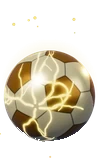
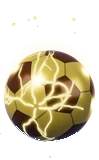
Мячи-паки: лак, подсветка и свечение по редкости, насыщенный золотой; магазин — цветные строки паков
Claude-Session: https://claude.ai/code/session_01VpcaxWoBDaJdgiPA1Q4kL3

diff --git a/js/fcm.js b/js/fcm.js
@@ -183,9 +183,9 @@ const FCM = (() => {
           <button class="hm-play" data-dv-play><svg viewBox="0 0 24 24" aria-hidden="true"><path d="M8 5v14l11-7z" fill="currentColor"/></svg>Играть</button></div></div>` : homeHero(jg);
     // одна плитка «открыть сейчас»: самое ценное из того, что ждёт
     const T = A ? { a: 'data-act="angry"', img: 'img/packs/angry-360.webp?v=a2', s: 'Злой мяч', t: 'Открыть', n: A, c: 'angry' }
-      : P ? { a: 'data-act="balls"', img: 'img/packs/pk0-360.webp?v=b3', s: 'Мяч-дроп', t: 'Открыть', n: P, c: 'balls' }
-      : day ? { a: 'data-act="wheel"', img: 'img/packs/pk1-360.webp?v=b3', s: 'Бесплатно', t: 'Пак дня', n: '!', c: 'balls' }
-      : { a: 'data-fm-tab="store"', img: 'img/packs/pk3-360.webp?v=b3', s: 'Магазин', t: 'Паки', n: 0, c: 'packs' };
+      : P ? { a: 'data-act="balls"', img: 'img/packs/pk0-360.webp?v=b4', s: 'Мяч-дроп', t: 'Открыть', n: P, c: 'balls' }
+      : day ? { a: 'data-act="wheel"', img: 'img/packs/pk1-360.webp?v=b4', s: 'Бесплатно', t: 'Пак дня', n: '!', c: 'balls' }
+      : { a: 'data-fm-tab="store"', img: 'img/packs/pk3-360.webp?v=b4', s: 'Магазин', t: 'Паки', n: 0, c: 'packs' };
     const GM = ['career', 'ng-wordle', 'hl'].map((k) => `img/games/${k}.webp`);
     // лига канала: место недели (последнее известное) и «награда ждёт»
     if (typeof League !== 'undefined') League.load(false, () => { if (tab === 'play') render(); });
@@ -525,14 +525,14 @@ const FCM = (() => {
   // ---- пропуск сезона в новом виде: две линии наград (премиум сверху, бесплатно снизу), уровни, «Забрать» ----
   function rwCell(r, st, attr) {
     const l = Rewards.rewardLabel(r);
-    const art = r.pack !== undefined ? `<img src="img/packs/pk${r.pack}-160.webp?v=b3" alt="">` : r.coins ? '<i class="coin big"></i>' : l.ico;
+    const art = r.pack !== undefined ? `<img src="img/packs/pk${r.pack}-160.webp?v=b4" alt="">` : r.coins ? '<i class="coin big"></i>' : l.ico;
     return `<button class="fm-ps-c ${st}" ${attr}><span class="fm-ps-a">${art}</span><b>${esc(l.txt || l.name)}</b>${st === 'got' ? '<i>✓</i>' : st === 'ready' ? '<em>Забрать</em>' : st === 'buy' ? '<em class="pr">Премиум</em>' : ''}</button>`;
   }
   // ---- пропуск (5.11): сверху премиум-линия, снизу бесплатная, посередине уровни на линии прогресса; дорожка встаёт на текущий уровень ----
   function psCell(r, st, attr, prem, cw = 42) {
     const l = Rewards.rewardLabel(r);
     const pc = r.key && Cards.get(r.key);
-    const art = pc ? `<span class="ps2-card">${Cards.html(pc, { w: cw })}</span>` : r.pack !== undefined ? `<img class="ps2-pk" src="img/packs/pk${r.pack}-160.webp?v=b3" alt="">` : r.coins ? '<i class="coin big"></i>' : r.lime ? '<i class="lime big"></i>' : `<span class="ps2-ic">${l.ico}</span>`;
+    const art = pc ? `<span class="ps2-card">${Cards.html(pc, { w: cw })}</span>` : r.pack !== undefined ? `<img class="ps2-pk" src="img/packs/pk${r.pack}-160.webp?v=b4" alt="">` : r.coins ? '<i class="coin big"></i>' : r.lime ? '<i class="lime big"></i>' : `<span class="ps2-ic">${l.ico}</span>`;
     const name = r.lime ? `${r.lime}` : pc ? l.txt : r.pack !== undefined ? l.txt : r.coins ? `${r.coins}` : (l.name || l.txt);
     const tag = st === 'got' ? '<i class="ps2-ok">✓</i>' : st === 'ready' ? '<em>Забрать</em>' : /buy/.test(st) ? `<i class="ps2-lock">${ico('lock')}</i>` : '';
     return `<button class="ps2-c ${st} ${prem ? 'pr' : ''} ${pc ? 'sp' : ''}" ${attr}><span class="ps2-a">${art}</span><b>${esc(name)}</b>${tag}</button>`;
@@ -626,7 +626,7 @@ const FCM = (() => {
   }
   const price = (x) => `${x.coins ? `<span class="fm-pr c">${coin}${x.coins}</span>` : ''}${x.stars ? `<span class="fm-pr s">${StarShop.free() ? 'Бесплатно' : x.stars} ⭐</span>` : ''}`;
   const pkCard = (x, big) => `<button class="fm-pk lv${x.level} ${big ? 'big' : ''}" data-fm-pk="${x.id}">
-      <i class="fm-pk-glow"></i><img class="fm-pk-img" src="img/packs/pk${x.level}-360.webp?v=b3" alt="" loading="lazy" draggable="false">
+      <i class="fm-pk-glow"></i><img class="fm-pk-img" src="img/packs/pk${x.level}-360.webp?v=b4" alt="" loading="lazy" draggable="false">
       <span class="fm-pk-t"><b>${esc(x.name)}</b><span class="fm-chips">${chips(x).map((c) => `<em>${esc(c)}</em>`).join('')}</span></span>
       <span class="fm-pk-p">${price(x)}</span></button>`;
   function store() {
@@ -637,10 +637,10 @@ const FCM = (() => {
     if (sub.store === 'top') {
       const jack = list.find((x) => x.id === 'jack'), rest = list.filter((x) => ['basic', 'gold', 'legend'].includes(x.id));
       body = `<div class="fm-st-top">
-        ${jack ? `<button class="fm-st-hero" data-fm-pk="jack"><i class="fm-st-rays"></i><img src="img/packs/pk4-360.webp?v=b3" alt="" draggable="false">
+        ${jack ? `<button class="fm-st-hero" data-fm-pk="jack"><i class="fm-st-rays"></i><img src="img/packs/pk4-360.webp?v=b4" alt="" draggable="false">
           <span><small>Лучший пак</small><b>${esc(jack.name)}</b><em>${esc(jack.sub)}</em><span class="fm-pk-p">${price(jack)}</span></span></button>` : ''}
         <div class="fm-st-col">
-          <button class="fm-daypk ${day ? 'hot' : ''}" data-act="wheel"><img src="img/packs/pk0-160.webp?v=b3" alt=""><span><b>Пак дня</b><small>${day ? 'Бесплатно — забери сейчас' : 'Новый пак завтра'}</small></span><em>${day ? 'Забрать' : 'Завтра'}</em></button>
+          <button class="fm-daypk ${day ? 'hot' : ''}" data-act="wheel"><img src="img/packs/pk0-160.webp?v=b4" alt=""><span><b>Пак дня</b><small>${day ? 'Бесплатно — забери сейчас' : 'Новый пак завтра'}</small></span><em>${day ? 'Забрать' : 'Завтра'}</em></button>
           <div class="fm-st-mini">${rest.map((x) => pkCard(x)).join('')}</div>
         </div></div>`;
     } else if (sub.store === 'packs') body = `<div class="fm-pks">${list.map((x) => pkCard(x)).join('')}</div>`;
@@ -719,7 +719,7 @@ const FCM = (() => {
     const P0 = Cards.PACKS[x.level], P = { ...P0, w: effW(P0.w) }, tot = P.w.reduce((a, w) => a + w[1], 0);
     const el = document.createElement('div'); el.className = `fm-sheet lv${x.level}`;
     el.innerHTML = `<div class="fm-sh-card">
-        <div class="fm-sh-art"><i class="fm-st-rays"></i><img src="img/packs/pk${x.level}-360.webp?v=b3" alt="" draggable="false"></div>
+        <div class="fm-sh-art"><i class="fm-st-rays"></i><img src="img/packs/pk${x.level}-360.webp?v=b4" alt="" draggable="false"></div>
         <div class="fm-sh-info">
           <small>Пак</small><b>${esc(x.name)}</b>
           <span class="fm-chips">${chips(x).map((c) => `<em>${esc(c)}</em>`).join('')}</span>

diff --git a/js/packs.js b/js/packs.js
@@ -22,7 +22,7 @@ const PackOpen = (() => {
   // рисунок пака по редкости (img/packs/pk*.webp); объём нарисован на самой картинке
   const PIMG = ['pk-silver', 'pk-blue', 'pk-purple', 'pk-gold', 'pk-black'];
   // паки-мячи (4.11): 3D-рендер, tools/art/packforms.html (renderBall), node tools/art/render.js balls
-  const pimg = (lv, sz) => `img/packs/pk${lv}-${sz === 'xxl' || sz === 'xl' ? 360 : 160}.webp?v=b3`;
+  const pimg = (lv, sz) => `img/packs/pk${lv}-${sz === 'xxl' || sz === 'xl' ? 360 : 160}.webp?v=b4`;
   const art = (lv, sz = '', cap = false) => `<span class="fpk p${lv} ${sz} pimg"><span class="fpk-b">
       <i class="fpk-f" style="-webkit-mask-image:url(${pimg(lv, sz)});mask-image:url(${pimg(lv, sz)})"><img class="fpk-img" src="${pimg(lv, sz)}" alt="" decoding="async" draggable="false"><i class="fpk-sh"></i><em>${LV[lv].short}</em>${cap ? '<i class="po-cap"></i>' : ''}</i>
       <i class="fpk-s"></i><i class="fpk-k"></i></span></span>`;
@@ -240,7 +240,7 @@ const PackOpen = (() => {
     const [art, big, sub, col] = p.coins ? [`<span class="pz-coins">${'<i class="coin"></i>'.repeat(5)}</span>`, `+${F(p.coins * K)}`, 'монет', '#ffd23c']
       : p.lime ? ['<i class="lime pz-lime"></i>', `+${F(p.lime)}`, 'лаймовых очков прокачки', '#c6ff3d']
       : p.xp ? ['<span class="pz-xp">★</span>', `+${p.xp}`, 'очков пропуска', '#7fd8ff']
-      : [`<img class="pz-pk" src="img/packs/pk${p.pack}-360.webp?v=b3" alt="">`, LV[p.pack].name, 'откроется следом', LV[p.pack].css];
+      : [`<img class="pz-pk" src="img/packs/pk${p.pack}-360.webp?v=b4" alt="">`, LV[p.pack].name, 'откроется следом', LV[p.pack].css];
     setCol(el, col);
     $('.po-k', el).textContent = 'Мяч-дроп'; const nm = $('.po-name', el); nm.textContent = sub.toUpperCase(); nm.classList.remove('long'); slam(nm);
     stage.innerHTML = `<div class="po-prize"><i class="pz-rays"></i><span class="pz-art">${art}</span><b class="pz-n">${esc(big)}</b><small>${esc(sub)}</small></div>`;

diff --git a/tools/art/packforms.html b/tools/art/packforms.html
@@ -101,7 +101,7 @@ const BALL_LV = [ // [основа, лоскуты, свет, трещин, ме
   { base: '#f4f6f8', pent: '#14171f', col: '#7fe0a0', cracks: 1 },
   { base: '#eaf6ff', pent: '#1546b0', col: '#56d4ff', cracks: 2 },
   { base: '#1a0f33', pent: '#7a45f0', col: '#c59bff', cracks: 3, dark: true },
-  { base: '#ffe7a0', pent: '#a56c00', col: '#ffd24a', cracks: 4, metal: true },
+  { base: '#ffcf3a', pent: '#7a4300', col: '#ffe066', cracks: 4, metal: true },
   { base: '#07080a', pent: '#c6ff3d', col: '#c6ff3d', cracks: 5, dark: true, metal: true },
 ];
 window.renderBall = async (lv, w, h) => { const L0 = BALL_LV[lv], s = rig(w, h, L0.col);
@@ -109,6 +109,10 @@ window.renderBall = async (lv, w, h) => { const L0 = BALL_LV[lv], s = rig(w, h, 
   const geo = new THREE.SphereGeometry(1, 128, 96);
   const ball = new THREE.Mesh(geo, new THREE.MeshStandardMaterial({ map: ballTex(L0, new THREE.Euler(0.4, 0.7, 0.15)), emissiveMap: crackTex(L0, L0.cracks + 1), emissive: new THREE.Color(0xffffff), emissiveIntensity: 1.6, ...met }));
   ball.rotation.set(0.12, -0.25, 0); ball.castShadow = true; s.add(ball);
+  // 22.11: «дороже» — лак (clearcoat) и цветной контровой свет по редкости
+  ball.material = new THREE.MeshPhysicalMaterial({ map: ball.material.map, emissiveMap: ball.material.emissiveMap, emissive: new THREE.Color(0xffffff), emissiveIntensity: 1.6, clearcoat: 1, clearcoatRoughness: 0.12, ...met });
+  [[-2.2, 1.6, -2.2], [2.4, -0.6, -2]].forEach(([x, y, z]) => { const rl = new THREE.PointLight(L(L0.col), 4 + lv, 8); rl.position.set(x, y, z); s.add(rl); });
+  s.children.forEach((o) => { if (o.material && o.material.type === 'ShadowMaterial') o.visible = false; }); // без тени на полу: край кадра её обрезал
   s.children.forEach((o) => { if (o.isMesh && o.geometry.type === 'PlaneGeometry' && o.material.map) o.scale.setScalar(0.45); }); // ореол не до краёв кадра
   // искры вокруг
   let sd = 3 + lv; const rnd = () => ((sd = (sd * 16807) % 2147483647) / 2147483647);

diff --git a/index.html b/index.html
@@ -768,7 +768,7 @@
 
 <script defer src="js/core.js?v=20261114-pl2"></script>
 <script defer src="js/plate.js?v=20261114-pl3"></script>
-<script defer src="js/notify.js?v=20261121-hd3"></script>
+<script defer src="js/notify.js?v=20261122-bl2"></script>
 <script defer src="js/drag.js?v=20261014a"></script>
 <script defer src="js/relay.js?v=20261014-relay3"></script>
 <script defer src="js/online.js?v=20261121-on2"></script>
@@ -825,10 +825,10 @@
 <link rel="stylesheet" href="css/home.css?v=20261122-pf4">
 <link rel="stylesheet" href="css/league.css?v=20261122-pf4">
 <link rel="stylesheet" href="css/fx.css?v=20261122-pf4">
-<link rel="stylesheet" href="css/skin.css?v=20261122-pf4">
+<link rel="stylesheet" href="css/skin.css?v=20261122-bl2">
 <link rel="stylesheet" href="css/clean.css?v=20261122-cl2">
 <script defer src="js/social.js?v=20261015-shop1"></script>
-<script defer src="js/packs.js?v=20261121-hd3"></script>
+<script defer src="js/packs.js?v=20261122-bl2"></script>
 <script defer src="js/rewards.js?v=20261114-pl2"></script>
 <script defer src="js/division.js?v=20261114-on1"></script>
 <script defer src="js/sbc.js?v=20261016-trk"></script>
@@ -886,11 +886,11 @@
 <script defer src="js/release.js?v=20261027-u1"></script>
 <script defer src="js/board.js?v=20261105-ad1"></script>
 <script defer src="js/track.js?v=20261016-trk"></script>
-<script defer src="js/clubpath.js?v=20261122-fx1"></script>
+<script defer src="js/clubpath.js?v=20261122-bl2"></script>
 <script defer src="js/app.js?v=20261105-dv1"></script>
-<script defer src="js/onboard.js?v=20261121-hd3"></script>
+<script defer src="js/onboard.js?v=20261122-bl2"></script>
 <script defer src="js/league.js?v=20261122-lg3"></script>
-<script defer src="js/fcm.js?v=20261122-cl1"></script>
+<script defer src="js/fcm.js?v=20261122-bl2"></script>
 <script defer src="js/fx.js?v=20261114-rs1"></script>
 <script>
 /* Автообновление: Telegram держит старую копию игры. При запуске (и при возврате в игру на главной) сверяем

diff --git a/css/skin.css b/css/skin.css
@@ -63,3 +63,16 @@
   body.fcm-on :is(.hm-n, .fm-dot) { box-shadow: 0 0 0 2px #0a1222, 0 2px 0 2px rgba(0,0,0,.4) !important; }
 }
 @media (prefers-reduced-motion: reduce) { body.fcm-on :is(.fm-btn, .hm-play) { transition: none !important; } }
+/* 22.11: мячи-паки — свечение цвета редкости за мячом и цветная полоса в строке пака (неподвижно, без нагрузки) */
+@media (orientation: landscape) and (max-height: 620px), (orientation: landscape) and (min-width: 900px) {
+  body.fcm-on .fm-pk.lv0 { --pc: #7fe0a0; }
+  body.fcm-on :is(.fm-pk-img, .fm-st-hero img, .fm-daypk img) { filter: drop-shadow(0 0 12px color-mix(in srgb, var(--pc, #7fe0a0) 75%, transparent)) drop-shadow(0 6px 8px rgba(0,0,0,.5)) !important; }
+  body.fcm-on .fm-st-mini .fm-pk { background: linear-gradient(90deg, color-mix(in srgb, var(--pc) 38%, transparent), transparent 55%), linear-gradient(180deg, rgba(30,48,88,.94), rgba(12,20,40,.94)) !important;
+    box-shadow: inset 3px 0 0 var(--pc), inset 0 1.5px 0 rgba(255,255,255,.12), 0 0 0 1.5px rgba(0,0,0,.35) !important; }
+  body.fcm-on .fm-st-mini .fm-pk-img { height: clamp(44px, 14vh, 60px) !important; }
+  body.fcm-on .fm-st-mini .fm-pk-t b { color: color-mix(in srgb, var(--pc) 35%, #fff); }
+  body.fcm-on .hm-t-art .pl-ball { filter: drop-shadow(0 0 14px rgba(255,255,255,.35)) drop-shadow(0 6px 8px rgba(0,0,0,.5)); }
+}
+@media (orientation: landscape) and (max-height: 620px), (orientation: landscape) and (min-width: 900px) {
+  body.fcm-on .fm-st-mini .fm-pk-p:has(.fm-pr + .fm-pr) { flex-direction: column !important; gap: 3px; }
+}

diff --git a/js/clubpath.js b/js/clubpath.js
@@ -120,7 +120,7 @@ const ClubPath = (() => {
     const c = CH[sel - 1], tk = tokens(sel), max = c.steps[c.steps.length - 1][0], all = c.tasks.every((t, i) => isDone(sel, i)), got = s.done.includes(sel);
     const chips = CH.map((x) => `<button class="cr-ch ${x.id === sel ? 'on' : ''} ${open(x.id) ? '' : 'lock'} ${s.done.includes(x.id) ? 'ok' : ''}" data-cr-ch="${x.id}" style="--cc:${x.col}"><small>Глава</small><b>${x.id}</b>${open(x.id) ? '' : lock}</button>`).join('');
     const steps = c.steps.map(([t, r], j) => { const st = s.st[sel + ':' + j] ? 'got' : tk >= t ? 'ready' : 'lock', l = Rewards.rewardLabel(r);
-      const art = r.pack !== undefined ? `<img src="img/packs/pk${r.pack}-160.webp?v=b3" alt="">` : r.coins ? '<i class="coin big"></i>' : l.ico;
+      const art = r.pack !== undefined ? `<img src="img/packs/pk${r.pack}-160.webp?v=b4" alt="">` : r.coins ? '<i class="coin big"></i>' : l.ico;
       return `<button class="cr-st ${st}" style="left:${(t / max) * 100}%" ${st === 'ready' ? `data-cr-st="${j}"` : ''}><span>${art}</span><b>${esc(l.txt || l.name)}</b><em>${t}</em></button>`; }).join('');
     // 21.11: проще — справа одно «следующее задание» крупно с большой кнопкой, под ним остальные задания короткими строками
     // (тап по строке — тоже «Играть»); слева глава, жетоны с дорожкой наград и главная награда

diff --git a/js/notify.js b/js/notify.js
@@ -14,7 +14,7 @@ const Notify = (() => {
   const face = (key) => { try { const c = Cards.get(key); if (!c) return ''; const src = c.faceUrl || (c.face && typeof faceSrc === 'function' ? faceSrc(c.face) : ''); return src || ''; } catch (e) { return ''; } };
   return {
     LIME,
-    pass: (lv, max) => P({ caption: 'Пропуск', counter: `${lv}/${max}`, title: 'Новый уровень', image: 'img/packs/pk2-160.webp?v=b3', tint: 'purple' }, `Пропуск: уровень ${lv}!`),
+    pass: (lv, max) => P({ caption: 'Пропуск', counter: `${lv}/${max}`, title: 'Новый уровень', image: 'img/packs/pk2-160.webp?v=b4', tint: 'purple' }, `Пропуск: уровень ${lv}!`),
     quest: (t, n) => P({ caption: 'Задание выполнено', counter: n > 1 ? `${n}/${n}` : '', title: t, tint: 'green' }, `Задание выполнено: ${t} ✓`),
     division: (name) => P({ caption: 'Повышение', title: name, tint: 'gold', fonts: 'sport', duration: 3200 }, `Новый дивизион: ${name}!`),
     record: (v) => P({ caption: 'Новый рекорд', title: String(v), tint: 'green', fonts: 'sport' }, `Новый рекорд: ${v}`),

diff --git a/js/onboard.js b/js/onboard.js
@@ -82,7 +82,7 @@ const Onboard = (() => {
   function pack() {
     const s = S();
     el.innerHTML = `<div class="ob-pack"><small>Награда за первый выход</small><b>Стартовый пак</b><p>18 карточек: 4 золотых, 6 серебряных, 8 бронзовых</p>
-      <img class="ob-pk" src="img/packs/pk3-360.webp?v=b3" alt=""><button class="ob-go" data-ob="open">Открыть</button></div>`;
+      <img class="ob-pk" src="img/packs/pk3-360.webp?v=b4" alt=""><button class="ob-go" data-ob="open">Открыть</button></div>`;
     if (s.packGot) { el.querySelector('[data-ob="open"]').textContent = 'Дальше'; el.querySelector('[data-ob="open"]').dataset.ob = 'next'; }
   }
   let ecoTry = false; // запрос стартового пака уже ушёл (не сохраняется)

diff --git a/docs/product-plan.md b/docs/product-plan.md
@@ -456,3 +456,4 @@ tackle, receive, spin, juggle, gk_idle, gk_dive, gk_catch` (`tools/art/player/re
 - **Единый стиль (22.11)** — `css/skin.css`, подключён последним, только лёжа: объёмные кнопки с толстым нижним краем (нажатие «вдавливает»), белые надписи с тёмной обводкой на цветных кнопках, заголовки с обводкой, все панели одного вида (тёмно-синие, светлая кромка сверху, тёмный контур), выбранный раздел слева и вкладка сверху — яркая лаймовая. Принципы — как в Brawl Stars и FC Mobile: кнопку сразу видно, крупно, контрастно, экран разбит на понятные блоки.
 - **Баги и тормоза (22.11, по скриншотам)** — «Подробнее» в окне карточки открывало старое окно, не подогнанное под горизонтальный экран: кнопка убрана (всё уже в окне), вместо неё номер карточки «3 / 30»; «Прокачать» снова лаймовая. Тормоза: убраны анимации, которые перерисовывали экран каждый кадр поверх 3D-стадиона — свечение (box-shadow), мигание яркости (filter), фильтр-тень на качающейся карточке, вращающиеся лучи звезды команды, диагональные полосы во весь экран, а также анимации спрятанной старой главной (прожекторы #hub, блики). Блик по кнопкам — сдвигом (transform). Состав в «Команде» снова выпрыгивает по очереди: карточки ждут, пока 3D-сцена отрисуется, иначе анимация пролетала за первые тяжёлые кадры.
 - **Шансы паков (22.11, по «да» пользователя)** — `ECON.packs[].top`: гарантированная карта для состава (сверхредкий 80+, эпический 82+, легендарный 84+, «ДЖЕКСОН!!» 86+), бронзы меньше (обычный 35%, в легендарном и «ДЖЕКСОН!!» нет), золота больше, `decay.gold` 0.75 → 0.86. Цены прежние. Лучшая карта (медиана): 74 / 81 / 83 / 85 / 87 вместо 68 / 77 / 78 / 79 / 81. Игра (`Cards.packCards`) и сервер (`ecoRoll`) одинаково.
+- **Без мелких подписей и мячи (22.11)** — `css/clean.css` (последним): скрыты второстепенные строки-пояснения по всей игре («3 карты», «до 90: прокачай игроков», описания игр и паков, «очков до уровня…», «Обновятся через» и т. п.); в разделах слева остаётся только «N наград» (`small.hot`). Мячи-паки: лак (clearcoat) и цветной контровой свет (`tools/art/packforms.html`), золотой — насыщенно-золотой; в магазине — свечение цвета редкости за мячом и цветная полоса в строке пака, две цены — столбиком.
